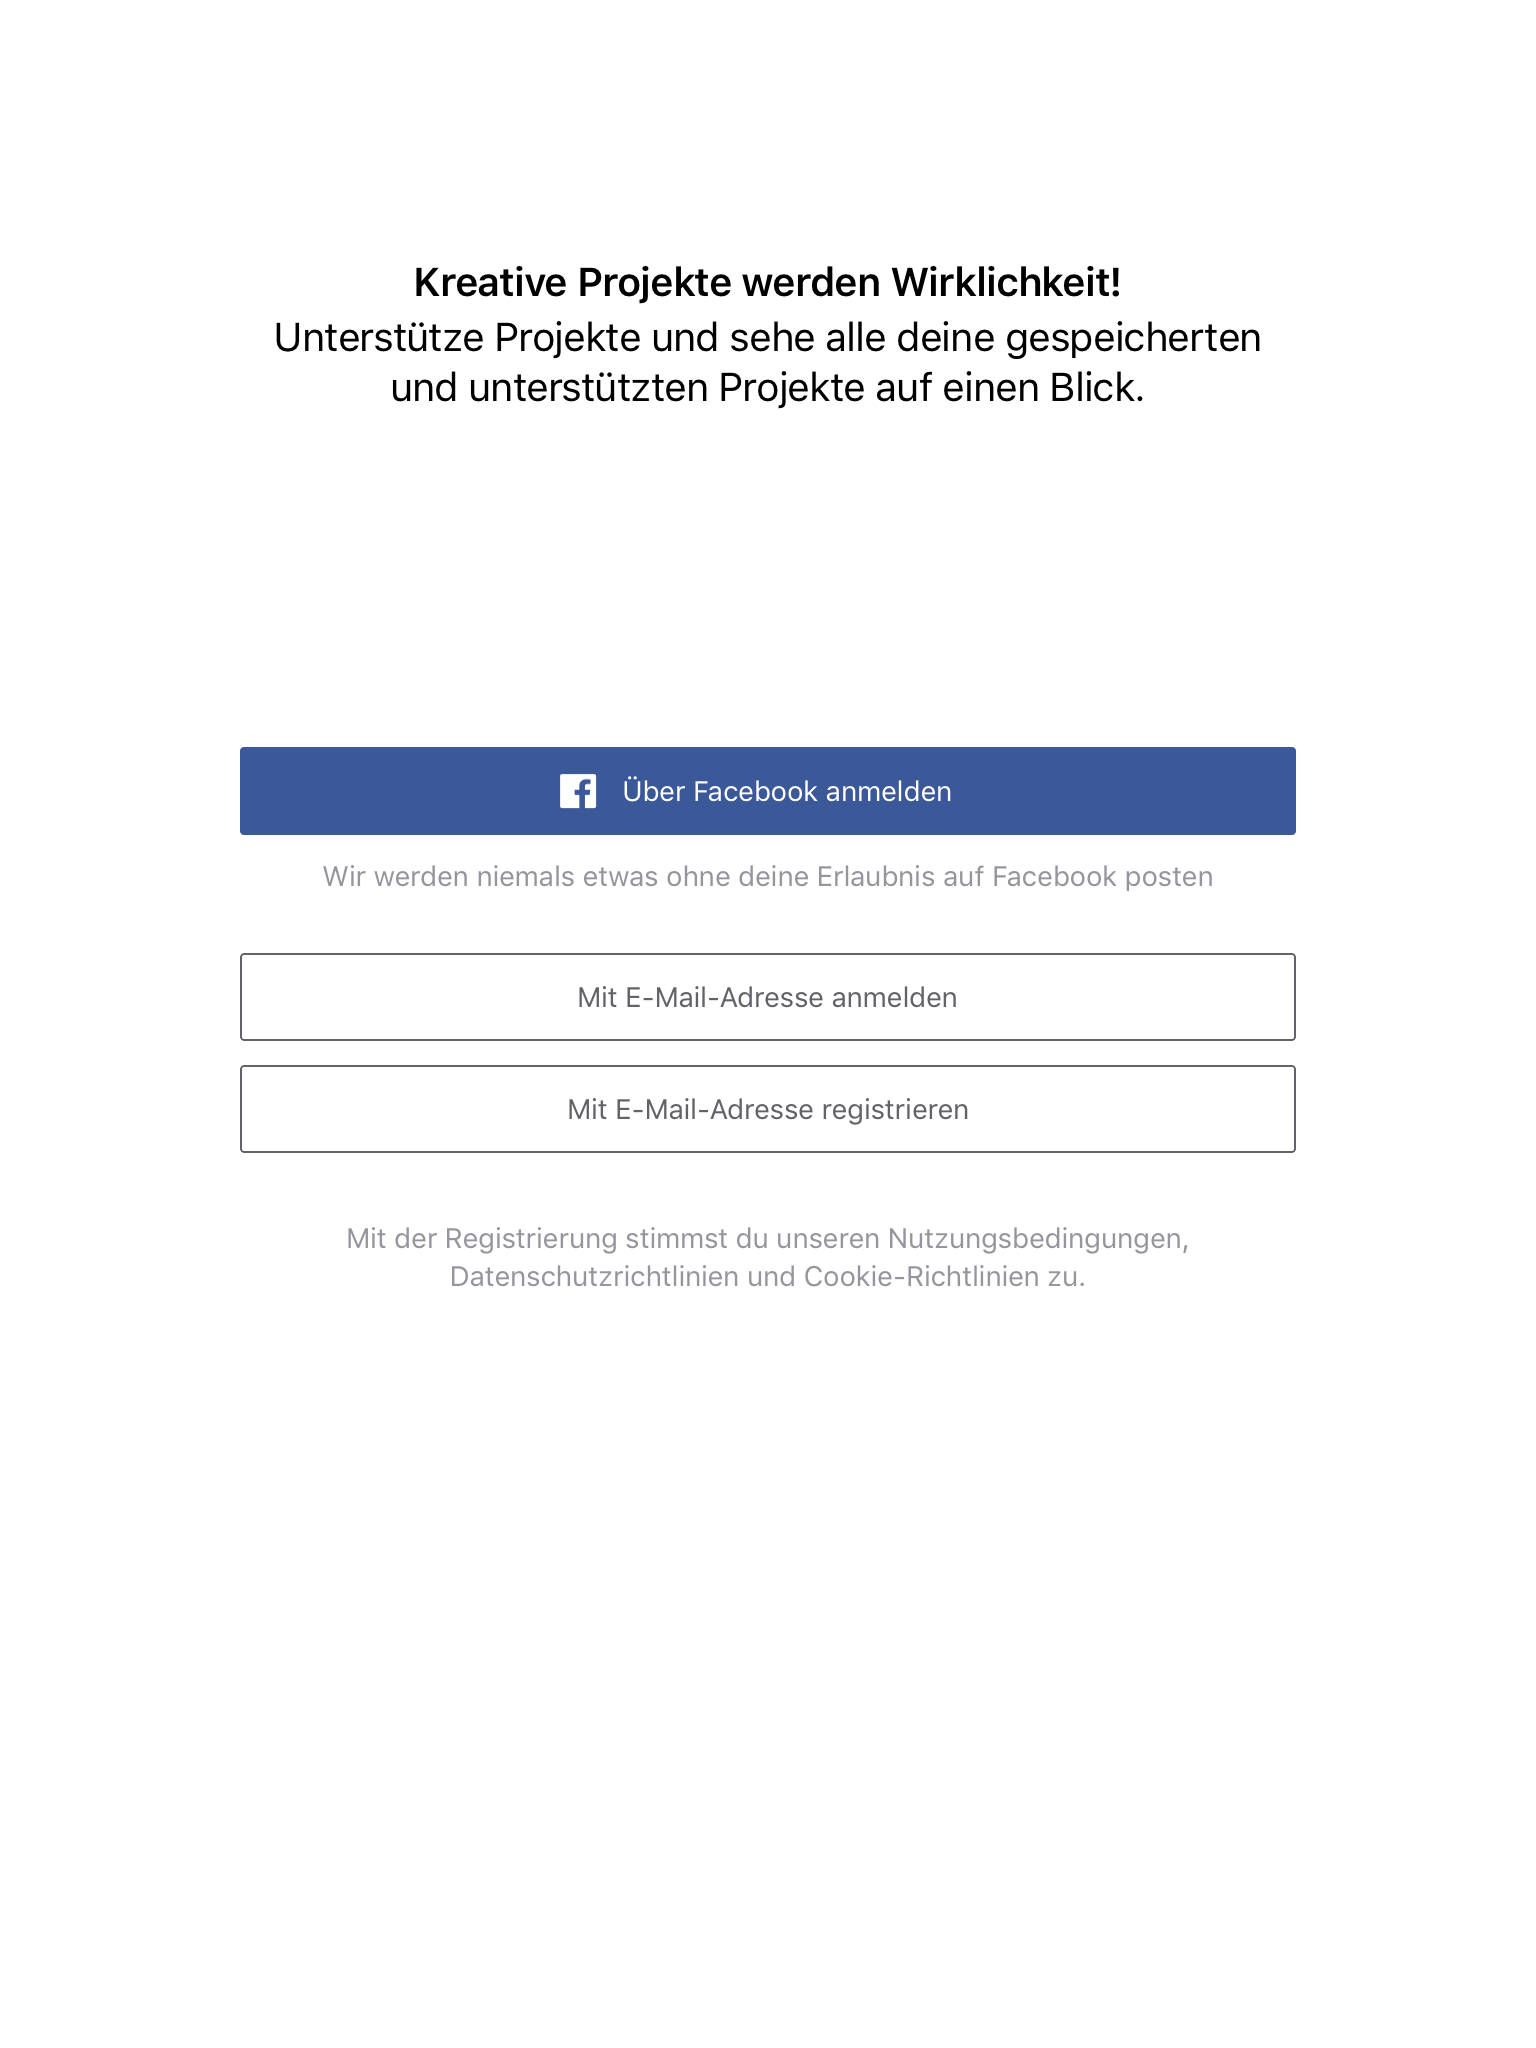
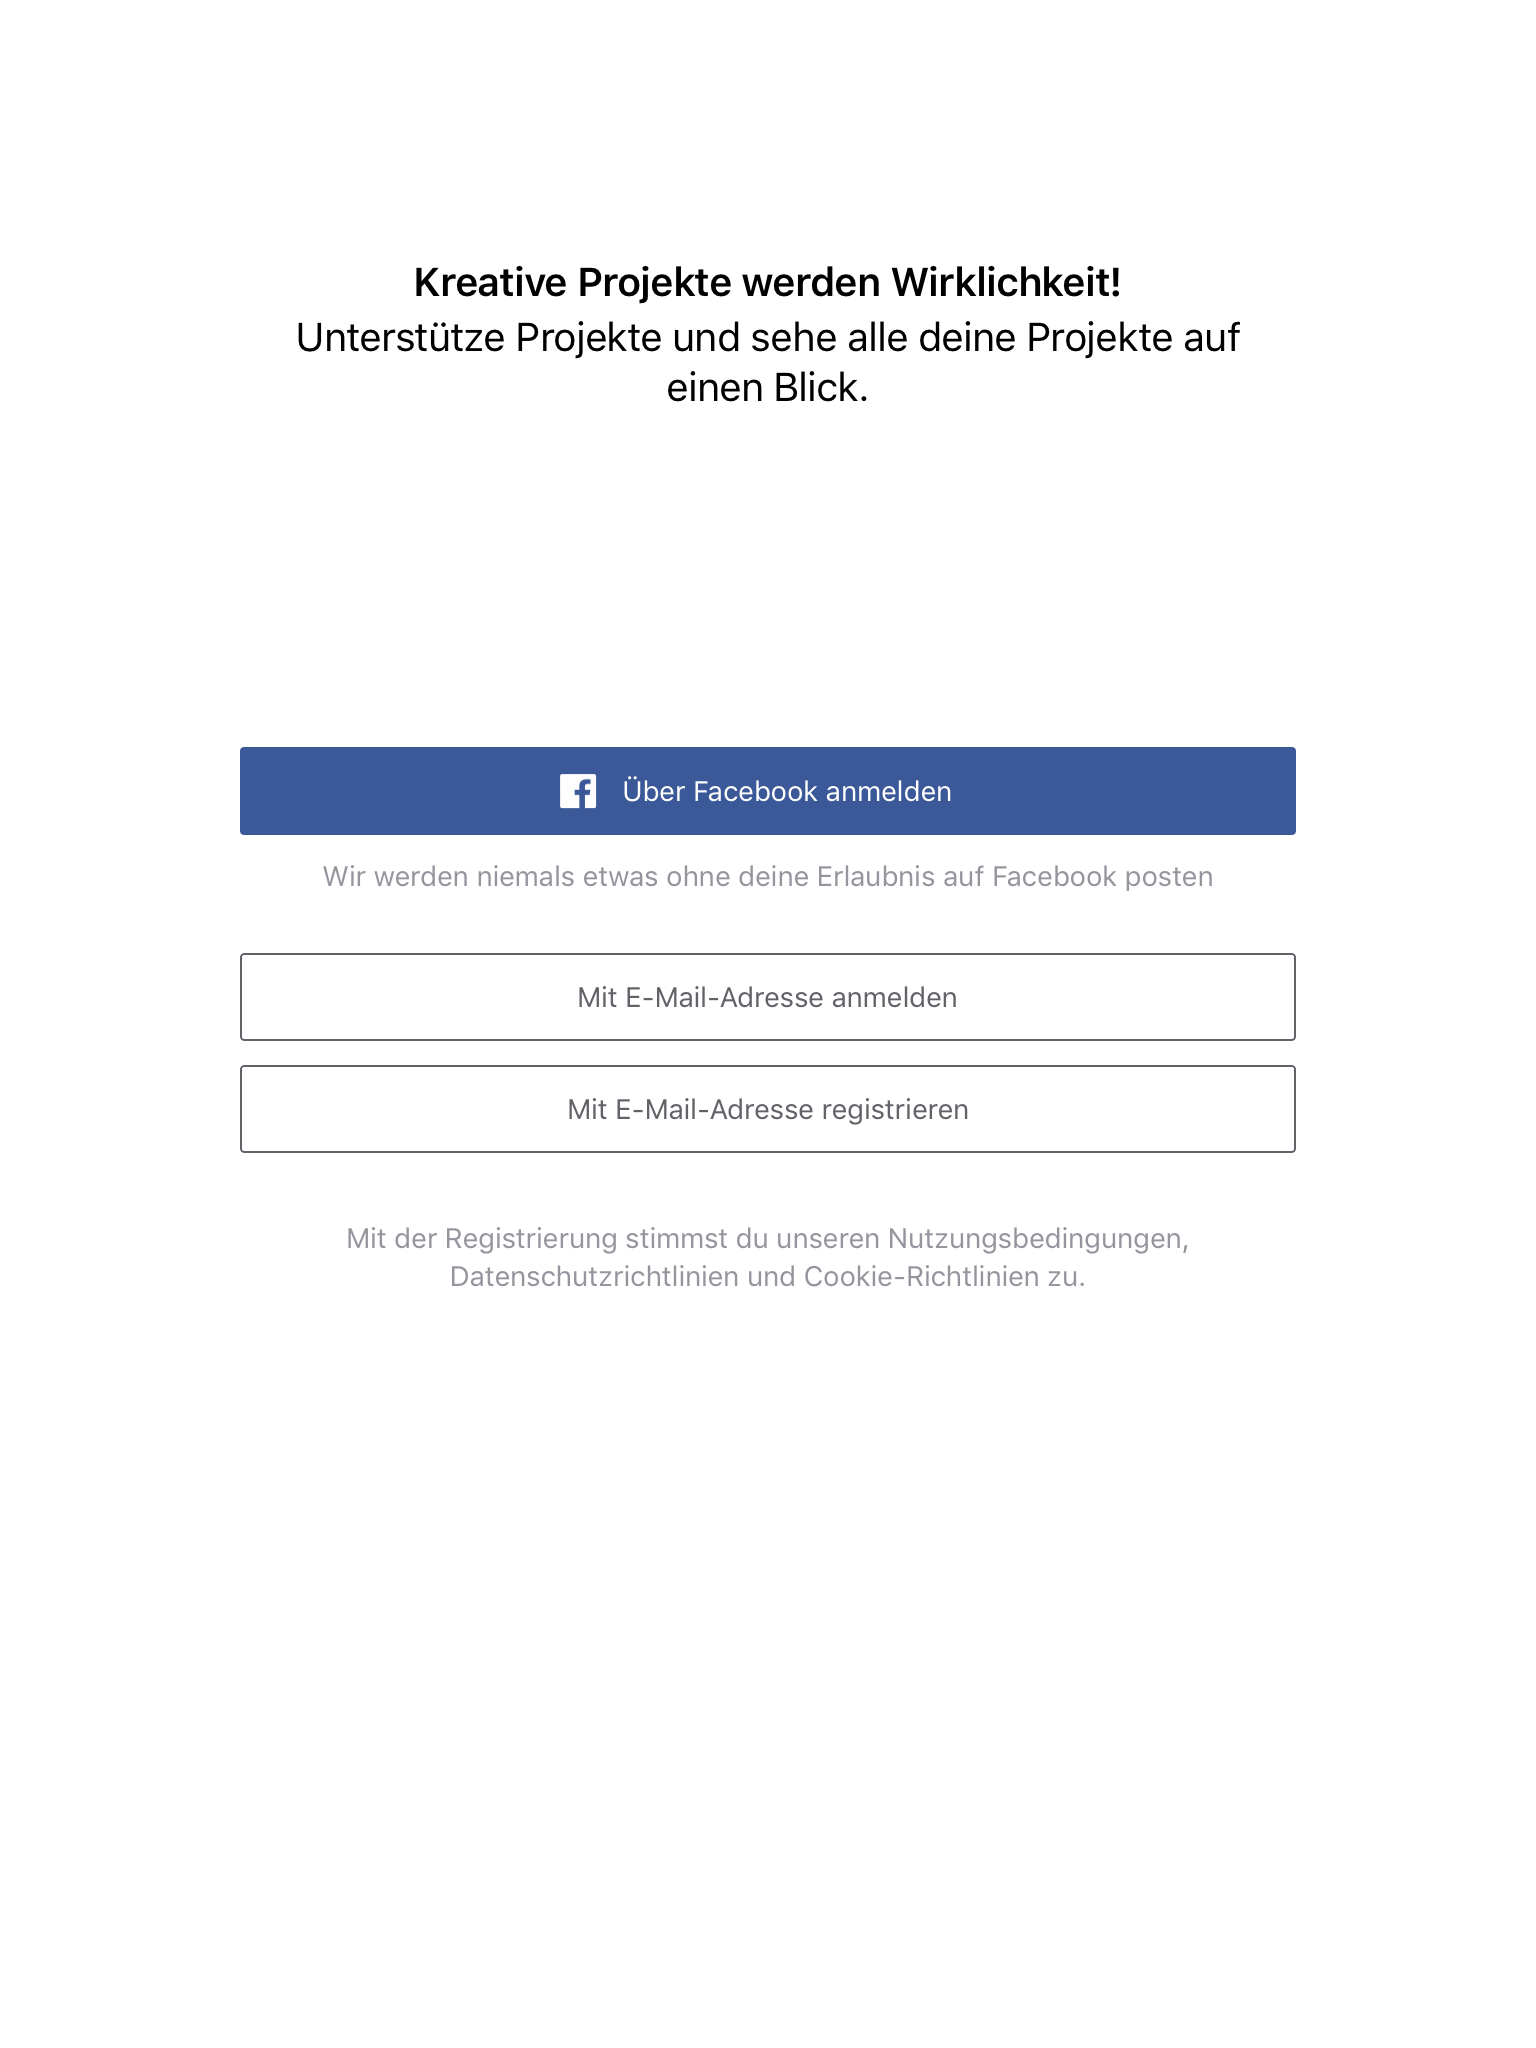
copy for login translated

Changed region(s): [[0.1875, 0.1562, 0.8125, 0.2188]]

diff --git a/Library/Strings.swift b/Library/Strings.swift
@@ -26,22 +26,6 @@ public enum Strings {
     )
   }
   /**
-   "Access all your favorite categories in the explore dropdown at the top of the app."
-
-   - **es**: "Accede a tus categorías favoritas en el menú en la parte superior de la app."
-   - **de**: "Zugang zu deinen meist besuchten Kategorien im Dropdown-Menü im oberen Bereich der App."
-   - **fr**: "Access all your favorite categories in the explore dropdown at the top of the app."
-   - **en**: "Access all your favorite categories in the explore dropdown at the top of the app."
-  */
-  public static func Access_all_your_favorite_categories_in_the_explore_dropdown() -> String {
-    return localizedString(
-      key: "Access_all_your_favorite_categories_in_the_explore_dropdown",
-      defaultValue: "Access all your favorite categories in the explore dropdown at the top of the app.",
-      count: nil,
-      substitutions: [:]
-    )
-  }
-  /**
    "Add attachments…"
 
    - **es**: "Agregar anexos …"
@@ -1759,6 +1743,22 @@ backers"
     )
   }
   /**
+   "Funding successful"
+
+   - **es**: "Funding successful"
+   - **de**: "Funding successful"
+   - **fr**: "Funding successful"
+   - **en**: "Funding successful"
+  */
+  public static func Funding_successful() -> String {
+    return localizedString(
+      key: "Funding_successful",
+      defaultValue: "Funding successful",
+      count: nil,
+      substitutions: [:]
+    )
+  }
+  /**
    "Get notified about this creator’s live streams"
 
    - **es**: "Recibe notificaciones sobre los Live Streams de este creador"
@@ -2743,7 +2743,7 @@ from friends yet."
    "Pledge to projects and view all your saved and backed projects in one place."
 
    - **es**: "Haz contribuciones a proyectos y revisa todos tus proyectos guardados y patrocinados - todo en un mismo lugar."
-   - **de**: "Unterstütze Projekte und sehe alle deine gespeicherten und unterstützten Projekte auf einen Blick."
+   - **de**: "Unterstütze Projekte und sehe alle deine Projekte auf einen Blick."
    - **fr**: "Soutenez des projets et consultez la liste de vos projets enregistrés et soutenus."
    - **en**: "Pledge to projects and view all your saved and backed projects in one place."
   */
@@ -2863,6 +2863,22 @@ from friends yet."
     return localizedString(
       key: "Project_Suspended",
       defaultValue: "Project Suspended.",
+      count: nil,
+      substitutions: [:]
+    )
+  }
+  /**
+   "Project cancelled"
+
+   - **es**: "Project cancelled"
+   - **de**: "Project cancelled"
+   - **fr**: "Project cancelled"
+   - **en**: "Project cancelled"
+  */
+  public static func Project_cancelled() -> String {
+    return localizedString(
+      key: "Project_cancelled",
+      defaultValue: "Project cancelled",
       count: nil,
       substitutions: [:]
     )
@@ -3784,6 +3800,22 @@ catch your eye?"
     )
   }
   /**
+   "To access all your favorite categories, tap the explore dropdown at the top of the app."
+
+   - **es**: "To access all your favorite categories, tap the explore dropdown at the top of the app."
+   - **de**: "To access all your favorite categories, tap the explore dropdown at the top of the app."
+   - **fr**: "To access all your favorite categories, tap the explore dropdown at the top of the app."
+   - **en**: "To access all your favorite categories, tap the explore dropdown at the top of the app."
+  */
+  public static func To_access_all_your_favorite_categories_tap_the_explore_dropdown() -> String {
+    return localizedString(
+      key: "To_access_all_your_favorite_categories_tap_the_explore_dropdown",
+      defaultValue: "To access all your favorite categories, tap the explore dropdown at the top of the app.",
+      count: nil,
+      substitutions: [:]
+    )
+  }
+  /**
    "To read this project update, you must be a backer. Please log in or sign up to continue."
 
    - **es**: "Sólo los patrocinadores pueden leer esta actualización, por favor inicia sesión o regístrate para continuar."
@@ -4037,22 +4069,6 @@ catch your eye?"
       defaultValue: "We couldn't find anything for “%{search_term}”.",
       count: nil,
       substitutions: ["search_term": search_term]
-    )
-  }
-  /**
-   "We’re all ears."
-
-   - **es**: "¡Somos todo oídos!"
-   - **de**: "Wir sind ganz Ohr!"
-   - **fr**: "Nous sommes tout ouïe."
-   - **en**: "We’re all ears."
-  */
-  public static func We_re_all_ears() -> String {
-    return localizedString(
-      key: "We_re_all_ears",
-      defaultValue: "We’re all ears.",
-      count: nil,
-      substitutions: [:]
     )
   }
   /**
@@ -6045,19 +6061,19 @@ Please try again later."
     )
   }
   /**
-   "%{category_name}/%{subcategory_name} saved."
+   "%{category_name} saved."
 
-   - **es**: "%{category_name}/%{subcategory_name} guardado."
-   - **de**: "%{category_name}/%{subcategory_name} gespeichert."
-   - **fr**: "%{category_name}/%{subcategory_name} : enregistré."
-   - **en**: "%{category_name}/%{subcategory_name} saved."
+   - **es**: "%{category_name} saved."
+   - **de**: "%{category_name} saved."
+   - **fr**: "%{category_name} saved."
+   - **en**: "%{category_name} saved."
   */
-  public static func category_name_subcategory_name_saved(category_name: String, subcategory_name: String) -> String {
+  public static func category_name_saved(category_name: String) -> String {
     return localizedString(
-      key: "category_name_subcategory_name_saved",
-      defaultValue: "%{category_name}/%{subcategory_name} saved.",
+      key: "category_name_saved",
+      defaultValue: "%{category_name} saved.",
       count: nil,
-      substitutions: ["category_name": category_name, "subcategory_name": subcategory_name]
+      substitutions: ["category_name": category_name]
     )
   }
   /**
@@ -8913,7 +8929,7 @@ Please try again later."
 
    - **es**: "Presentado en %{category_name}"
    - **de**: "Vorgestellt in %{category_name}"
-   - **fr**: "Un projet sélectionné de la catégorie %{category_name}"
+   - **fr**: "Un projet %{category_name} sélectionné"
    - **en**: "Featured in %{category_name}"
   */
   public static func discovery_baseball_card_metadata_featured_project(category_name: String) -> String {

diff --git a/Library/ViewModels/LoginToutViewModelTests.swift b/Library/ViewModels/LoginToutViewModelTests.swift
@@ -11,38 +11,38 @@ import XCTest
 @testable import FBSDKCoreKit
 
 final class LoginToutViewModelTests: TestCase {
+
   fileprivate let vm: LoginToutViewModelType = LoginToutViewModel()
-  fileprivate let startLogin = TestObserver<(), NoError>()
-  fileprivate let startSignup = TestObserver<(), NoError>()
-  fileprivate let startFacebookConfirmation = TestObserver<String, NoError>()
-  fileprivate let startTwoFactorChallenge = TestObserver<String, NoError>()
+
+  fileprivate let attemptFacebookLogin = TestObserver<(), NoError>()
+  fileprivate let dismissViewController = TestObserver<(), NoError>()
+  fileprivate let headlineLabelHidden = TestObserver<Bool, NoError>()
+  fileprivate let isLoading = TestObserver<Bool, NoError>()
+  fileprivate let logInContextText = TestObserver<String, NoError>()
   fileprivate let logIntoEnvironment = TestObserver<AccessTokenEnvelope, NoError>()
   fileprivate let postNotification = TestObserver<Notification.Name, NoError>()
-  fileprivate let attemptFacebookLogin = TestObserver<(), NoError>()
-  fileprivate let isLoading = TestObserver<Bool, NoError>()
   fileprivate let showFacebookErrorAlert = TestObserver<AlertError, NoError>()
-  fileprivate let dismissViewController = TestObserver<(), NoError>()
-
-  fileprivate let headlineLabelHidden = TestObserver<Bool, NoError>()
-  fileprivate let logInContextText = TestObserver<String, NoError>()
+  fileprivate let startFacebookConfirmation = TestObserver<String, NoError>()
+  fileprivate let startLogin = TestObserver<(), NoError>()
+  fileprivate let startSignup = TestObserver<(), NoError>()
+  fileprivate let startTwoFactorChallenge = TestObserver<String, NoError>()
 
   override func setUp() {
     super.setUp()
 
-    self.vm.outputs.startLogin.observe(self.startLogin.observer)
-    self.vm.outputs.startSignup.observe(self.startSignup.observer)
-    self.vm.outputs.startFacebookConfirmation.map { _, token in token }
-      .observe(self.startFacebookConfirmation.observer)
-    self.vm.outputs.startTwoFactorChallenge.observe(self.startTwoFactorChallenge.observer)
+    self.vm.outputs.attemptFacebookLogin.observe(self.attemptFacebookLogin.observer)
+    self.vm.outputs.dismissViewController.observe(self.dismissViewController.observer)
+    self.vm.outputs.headlineLabelHidden.observe(self.headlineLabelHidden.observer)
+    self.vm.outputs.isLoading.observe(self.isLoading.observer)
+    self.vm.outputs.logInContextText.observe(self.logInContextText.observer)
     self.vm.outputs.logIntoEnvironment.observe(self.logIntoEnvironment.observer)
     self.vm.outputs.postNotification.map { $0.name }.observe(self.postNotification.observer)
-    self.vm.outputs.attemptFacebookLogin.observe(self.attemptFacebookLogin.observer)
-    self.vm.outputs.isLoading.observe(self.isLoading.observer)
     self.vm.outputs.showFacebookErrorAlert.observe(self.showFacebookErrorAlert.observer)
-    self.vm.outputs.dismissViewController.observe(self.dismissViewController.observer)
-
-    self.vm.outputs.logInContextText.observe(self.logInContextText.observer)
-    self.vm.outputs.headlineLabelHidden.observe(self.headlineLabelHidden.observer)
+    self.vm.outputs.startFacebookConfirmation.map { _, token in token }
+      .observe(self.startFacebookConfirmation.observer)
+    self.vm.outputs.startLogin.observe(self.startLogin.observer)
+    self.vm.outputs.startSignup.observe(self.startSignup.observer)
+    self.vm.outputs.startTwoFactorChallenge.observe(self.startTwoFactorChallenge.observer)
   }
 
   func testLoginIntentTracking_Default() {
